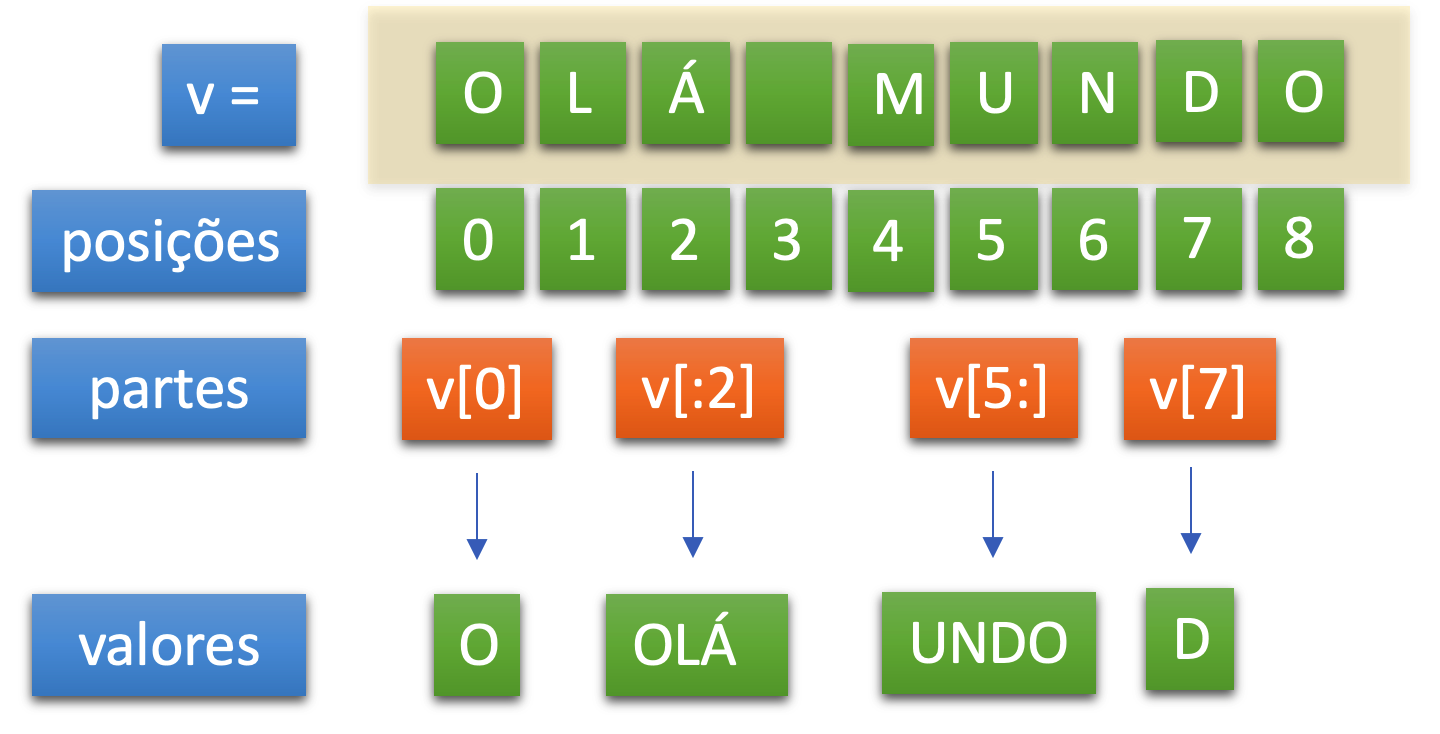
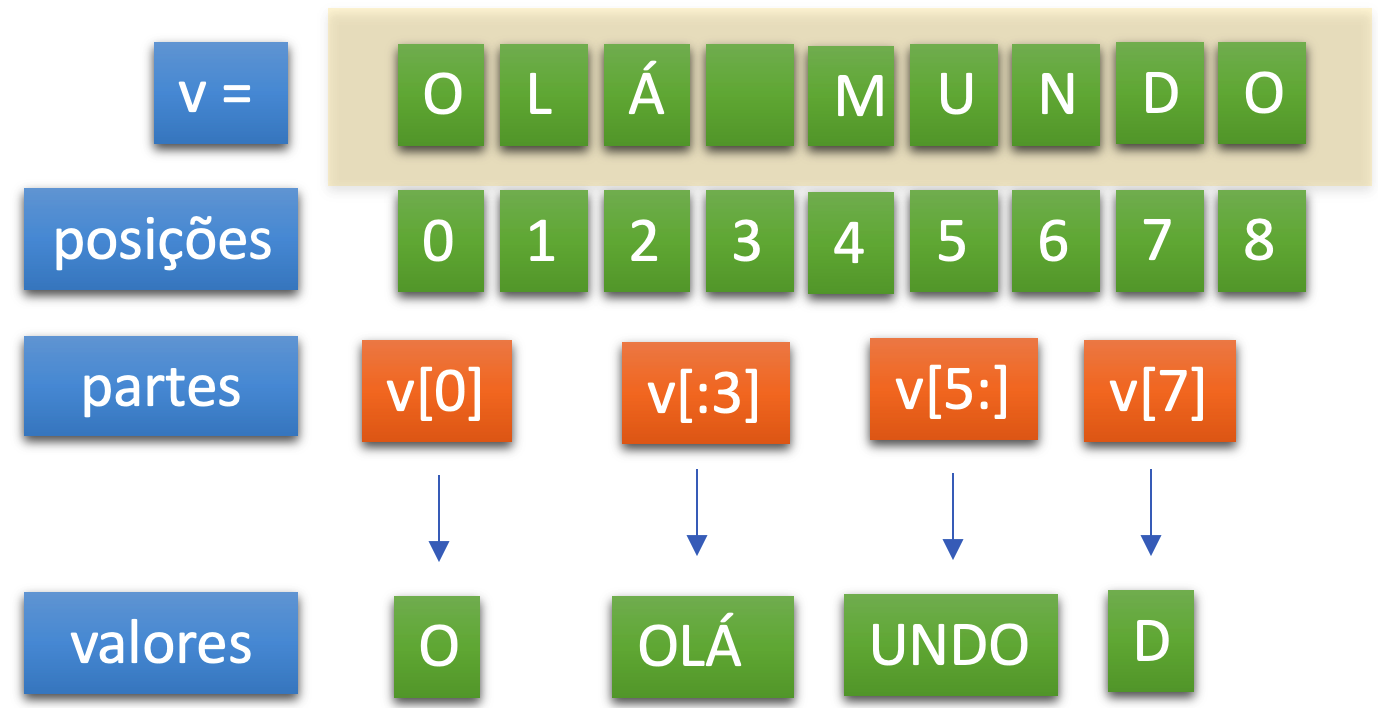
update

diff --git a/Aula7.md b/Aula7.md
@@ -61,6 +61,7 @@ print(f'Hello {name}! This is {program}')
 
 ### 2. Dividindo strings:
 
+Observe a Figura 1, ela é uma representação esquemática de como as strings são armazenadas e como podem ser extraídas as partes dessa string.
 
 <p align="center">
   <img src="imagens/Substrings.png" alt="Dividindo string em pedaços">
@@ -68,3 +69,12 @@ print(f'Hello {name}! This is {program}')
 <p align="center">
    <strong>Figura 1-Dividindo string em pedaços</strong> 
 </p>
+
+Na verdade as strings são como uma array que começa na posição 0.
+Você pode, então, obter um ou mais caracteres dessa string, informando o elemento do array.
+
+Nesse sentido v[0]='O' e v[7]='D'.
+Mas Python vai além, se você usar o caractere ":" pode determinar o início ou o fim do recorte da string. Por exemplo:
+
+v[:3] irá mostrar
+
